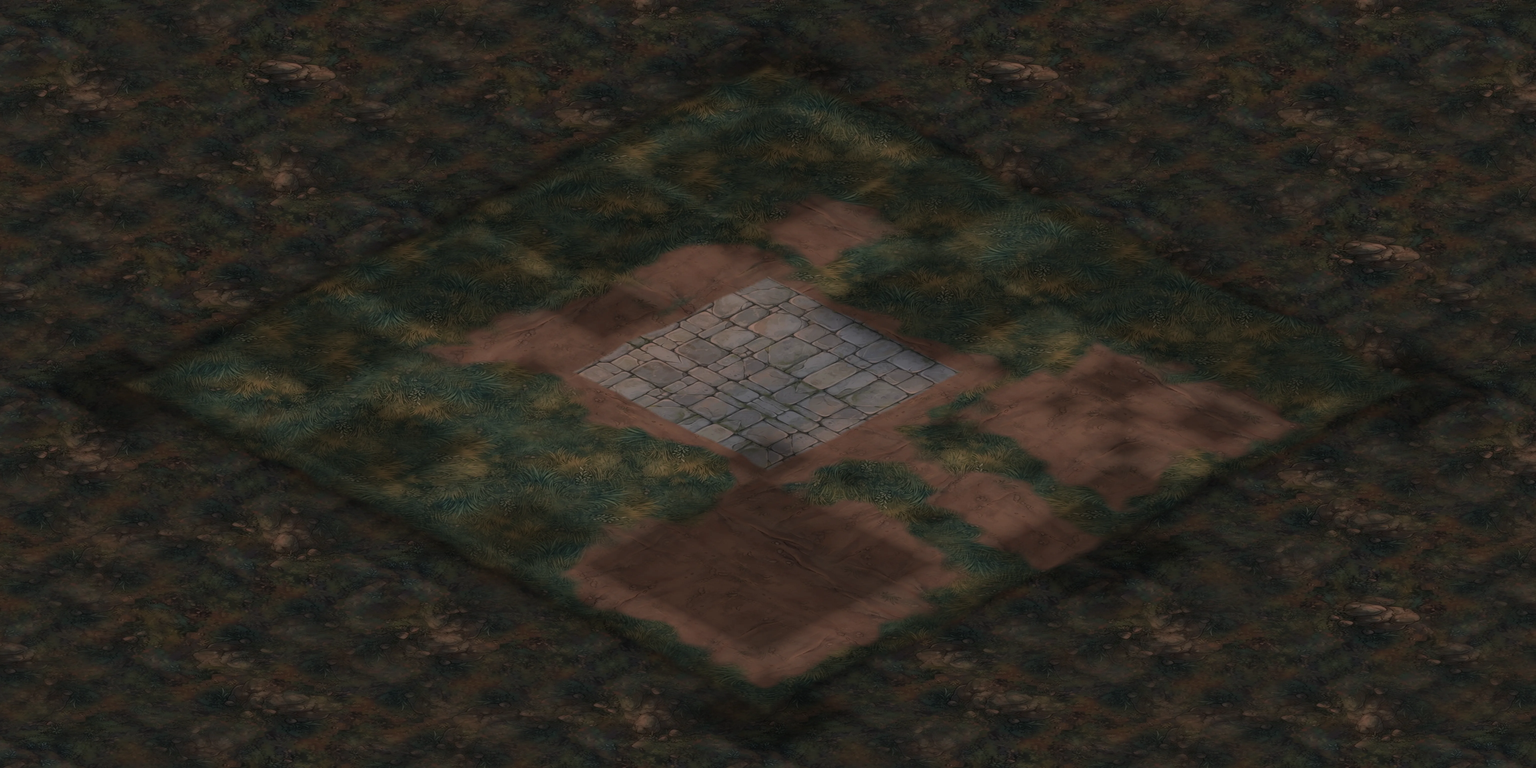
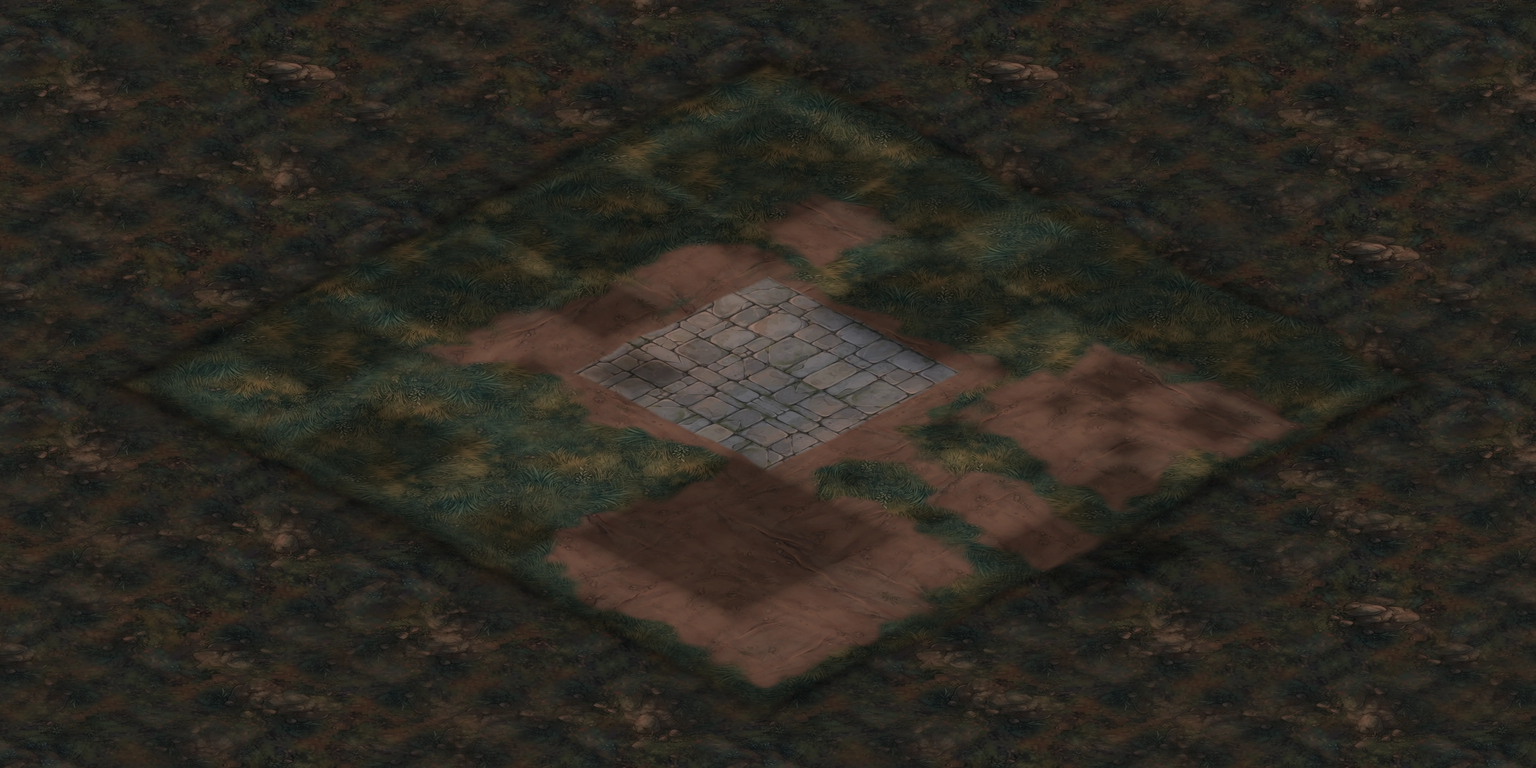
Walls without corner towers; townsfolk spread out; fade what hides you
The corner towers are gone: the four walls run into the corners and meet.
The arena moved off the walls so the Arena Keeper stands in front of it in
plain view; the Martial Master stands in the training yard; the stele moved
to the west side of the plaza; townsfolk stand at least 3 tiles apart
(tested). Any piece drawn over the cultivator fades to see-through, so
walking along the near wall no longer hides you.

Claude-Session: https://claude.ai/code/session_018PQaDNMJFyDFFKL6zLMtCE

diff --git a/web/static/town.js b/web/static/town.js
@@ -12,7 +12,7 @@
 
    The town is built from pieces (web/town.py): the ground, then each building and prop as its own picture, drawn in
    depth order with you and the townsfolk: you are hidden by a building when you stand behind it (beyond its
-   footprint's back edges), and drawn over it in front.
+   footprint's back edges), and drawn over it in front; whatever hides you fades to see-through.
 
    Walk up to someone and press E (or tap the button) to talk: a dialogue says who they are and offers the pages
    they send you to. Nothing here changes the game, so the server doesn't follow where you walk. */
@@ -214,7 +214,7 @@
     if (painted.complete) ctx.drawImage(painted, -half, 0, SIZE * TW, full);
     if (debug) drawDebug();
     function at(x, y, f) { ctx.save(); ctx.translate(x, y); ctx.scale(1 / K, 1 / K); f(); ctx.restore(); }   // you and they at your size
-    var movers = [{x: hero.x, y: hero.y, h: 175, f: function () { at(hp.x, hp.y, function () { drawHero(0, 0); }); }}];
+    var movers = [{hero: true, x: hero.x, y: hero.y, h: 175, f: function () { at(hp.x, hp.y, function () { drawHero(0, 0); }); }}];
     NPCS.forEach(function (n) {
       var p = toScreen(n.x, n.y);
       movers.push({x: n.x, y: n.y, h: (n.h || 100) + 50, f: function () { at(p.x, p.y, function () { drawNpc(n, 0, 0); }); }});
@@ -240,6 +240,10 @@
         if (front) slot = i + 1;
       });
       m.slot = slot;
+      if (m.hero) PIECES.forEach(function (q, i) {         // anything drawn over you turns see-through
+        var r = q.rect, left = r[0] - off.x;
+        q.fade = i >= slot && !(p.x + w < left || p.x - w > left + r[2] || p.y < r[1] || top > r[1] + r[3]);
+      });
     });
     movers.sort(function (a, b) { return a.slot - b.slot || (a.x + a.y) - (b.x + b.y); });
     var out = [], k = 0;
@@ -250,7 +254,11 @@
     return out;
   }
   function drawPiece(q, off) {
-    if (q.img.complete && q.img.naturalWidth) ctx.drawImage(q.img, q.rect[0] - off.x, q.rect[1], q.rect[2], q.rect[3]);
+    if (!q.img.complete || !q.img.naturalWidth) return;
+    q.alpha = q.alpha == null ? 1 : q.alpha + ((q.fade ? 0.4 : 1) - q.alpha) * 0.15;   // ease in and out
+    ctx.globalAlpha = q.alpha;
+    ctx.drawImage(q.img, q.rect[0] - off.x, q.rect[1], q.rect[2], q.rect[3]);
+    ctx.globalAlpha = 1;
   }
   /* G: the tile grid, the walkable ground and what blocks the way (to check the town against its painting) */
   function drawDebug() {

diff --git a/web/town.py b/web/town.py
@@ -54,12 +54,10 @@ def _wall_line(key, start, end, at, along_x):
 # x0..x0+a, y0..y0+b in tiles. A picture's door (or face) looks to the bottom-right (+x); `mirror` turns it to the
 # bottom-left (+y), swapping which side is long. The picture's base corners are fitted onto the footprint's.
 BUILDINGS = [
-    # the walls: towers at the corners, the gate in the south-east wall
-    _b("tower_n", "tower_low", 1.4, 1.4, 3.0), _b("tower_e", "tower_low", 28.2, 1.4, 3.0),
-    _b("tower_w", "tower_low", 1.4, 28.2, 3.0), _b("tower_s", "tower", 28.2, 28.2, 3.0),
-    *_wall_line("wall_nw", 4.4, 28.2, 2.4, along_x=False), *_wall_line("wall_ne", 4.4, 28.2, 2.4, along_x=True),
-    *_wall_line("wall_sw", 4.4, 28.2, 29.0, along_x=True),
-    *_wall_line("wall_se_n", 4.4, 14.3, 29.0, along_x=False), *_wall_line("wall_se_s", 18.3, 28.2, 29.0, along_x=False),
+    # the walls, meeting at the corners; the gate in the south-east wall
+    *_wall_line("wall_nw", 2.6, 29.6, 2.4, along_x=False), *_wall_line("wall_ne", 2.6, 29.6, 2.4, along_x=True),
+    *_wall_line("wall_sw", 2.6, 29.6, 29.0, along_x=True),
+    *_wall_line("wall_se_n", 2.6, 14.3, 29.0, along_x=False), *_wall_line("wall_se_s", 17.6, 29.6, 29.0, along_x=False),
     _b("gatehouse", "gatehouse", 27.6, 14.3, 4.0, mirror=True),
     # the north corner: the pond, the pavilion, rocks and trees
     _b("pond", "pond", 4.6, 4.6, 5.0),
@@ -76,14 +74,14 @@ BUILDINGS = [
     # the south-west: a house, trees and bushes
     _b("house_w", "house", 3.4, 22.2, 3.4),
     _b("house_sw", "house", 8.8, 25.0, 3.4, mirror=True),
-    _b("boulders_sw", "boulders", 16.0, 26.0, 2.4),
+    _b("boulders_sw", "boulders", 16.0, 26.6, 1.8),
     # the east: the training yard
     _b("rack_1", "rack", 22.4, 8.0, 1.4), _b("rack_2", "rack", 26.2, 7.6, 1.4, mirror=True),
     _b("dummy_1", "dummy", 22.6, 10.4, 0.55), _b("dummy_2", "dummy", 24.4, 9.6, 0.55), _b("dummy_3", "dummy", 25.8, 11.0, 0.55),
     _b("barrels_e", "barrels", 26.8, 12.0, 1.8),
     # the south: the arena, the stele by the plaza
-    _b("arena", "arena", 19.8, 20.2, 7.0),
-    _b("stele", "stele", 18.4, 18.4, 1.5),
+    _b("arena", "arena", 18.4, 19.8, 6.4),
+    _b("stele", "stele", 12.0, 17.6, 1.5),
     # lantern posts along the road and at the plaza's corners
     *[_b(f"lantern_{i}", "lantern", x, y, 0.4) for i, (x, y) in enumerate(
         [(21.4, 13.8), (24.8, 13.8), (21.4, 18.0), (24.8, 18.0), (10.4, 10.4), (20.0, 10.2), (10.2, 20.0)])],
@@ -95,7 +93,7 @@ PROPS = [
     {"img": "blossom", "x": 21.6, "y": 7.0, "h": 380, "r": 0.4},     # by the training yard
     {"img": "blossom", "x": 15.2, "y": 25.6, "h": 380, "r": 0.4},    # in the south-west garden
     {"img": "pine", "x": 4.8, "y": 27.0, "h": 420, "r": 0.35},
-    {"img": "pine", "x": 17.6, "y": 23.4, "h": 400, "r": 0.35},
+    {"img": "pine", "x": 16.6, "y": 23.0, "h": 400, "r": 0.35},
 ]
 # The ground (scripts/make_town_ground.py paints art/maps/town.webp from these): grass inside the walls, forest
 # floor outside, the plaza paved and dirt roads, paths and yards; rectangles x0, y0, x1, y1 in tiles.
@@ -106,7 +104,7 @@ GROUND = {
              (8.2, 10.4, 11.4, 21.0),                           # in front of the forge and the herb shop
              (8.6, 6.8, 12.6, 10.4), (12.6, 10.6, 19.6, 11.4),  # to the pavilion; in front of the stalls
              (20.8, 7.0, 28.6, 14.0),                           # the training yard
-             (19.0, 19.6, 28.4, 28.6)],                         # round the arena
+             (17.8, 19.2, 28.4, 28.6)],                         # round the arena
     "walls": (2.4, 2.4, 29.6, 29.6),                            # outside this: forest floor
 }
 
@@ -116,7 +114,7 @@ GROUND = {
 # glow and their name. `h`: how tall it is drawn, in world px (the cultivator is about 120); `flip`: the picture faces
 # left (the page turns everyone toward you). scripts/make_town_npcs.py cuts them out.
 NPCS = [
-    {"key": "gate", "name": "Gate Warden", "title": "The road out", "x": 26.4, "y": 18.7,
+    {"key": "gate", "name": "Gate Warden", "title": "The road out", "x": 26.2, "y": 18.8,
      "src": "/art/portraits/town/gate.webp", "h": 135,
      "line": "The wilds are restless tonight. Beasts prowl the forest, and the herbs out there won't pick themselves.",
      "go": [["Hunt beasts", "/explore"], ["Gather herbs", "/gather"]]},
@@ -136,13 +134,13 @@ NPCS = [
      "src": "/art/portraits/town/elder.webp", "h": 128,
      "line": "Sit a while, child. Let me see how far your cultivation has come.",
      "go": [["Show my cultivation", "/profile"], ["Check my bag", "/inventory"]]},
-    {"key": "master", "name": "Martial Master", "title": "Training", "x": 23.0, "y": 13.0,
+    {"key": "master", "name": "Martial Master", "title": "Training", "x": 24.0, "y": 12.2,
      "src": "/art/portraits/town/master.webp", "h": 128,
      "line": "The training yard isn't open to you yet. Train through the bot for now; my doors open soon."},
-    {"key": "arena", "name": "Arena Keeper", "title": "Duels", "x": 24.6, "y": 16.4,
+    {"key": "arena", "name": "Arena Keeper", "title": "Duels", "x": 25.4, "y": 22.4,
      "src": "/art/portraits/town/arena.webp", "h": 134,
      "line": "No duels in the ring tonight. When it opens, cultivators will test each other here."},
-    {"key": "stele", "name": "Stone Stele", "title": "The rankings", "x": 17.6, "y": 19.6, "prop": True,
+    {"key": "stele", "name": "Stone Stele", "title": "The rankings", "x": 14.0, "y": 19.4, "prop": True,
      "line": "The names of the town's strongest are carved here. The carving isn't finished yet."},
 ]
 

diff --git a/tests/test_town.py b/tests/test_town.py
@@ -59,13 +59,19 @@ def test_every_piece_has_its_picture_and_sits_on_the_ground():
         assert im.mode == "RGBA"
         left, top, w, h = q["rect"]
         assert 0 <= left and left + w <= town.SIZE * 128 and top + h <= town.SIZE * 64 and w > 0 and h > 0
-    edge = {"wall_s", "wall_l", "tower", "tower_low", "gatehouse"}   # wall slices tuck under the towers and the gate
+    edge = {"wall_s", "wall_l", "gatehouse"}                  # wall slices meet at corners and tuck under the gate
     gap = 0.2                                                 # stone bases never touch: a little ground between
     for a in town.BUILDINGS:
         for b in town.BUILDINGS:
             if a is not b and not (a["img"] in edge or b["img"] in edge):
                 assert (a["x0"] + a["a"] + gap <= b["x0"] or b["x0"] + b["a"] + gap <= a["x0"] or
                         a["y0"] + a["b"] + gap <= b["y0"] or b["y0"] + b["b"] + gap <= a["y0"]), (a["key"], b["key"])
+
+
+def test_the_townsfolk_stand_apart():
+    for i, a in enumerate(town.NPCS):
+        for b in town.NPCS[i + 1:]:
+            assert math.dist((a["x"], a["y"]), (b["x"], b["y"])) >= 3, (a["key"], b["key"])
 
 
 def test_townsfolk_are_complete_and_unique():

diff --git a/docs/town.md b/docs/town.md
@@ -21,7 +21,7 @@ buttons; it walks the town as soon as its sheet is added. No admin check, unlike
   ground tiles, lifted flat and blended into seamless tiles) and `town.GROUND`: grass inside the walls, forest floor
   outside, the paved plaza, dirt roads and yards, a soft shadow at each building's foot, dimmed to dusk. On it stand
   the walls (one straightened one-tile slice of SHOAIB's wall per tile, so they run straight and
-  unbroken between the towers), the towers and gate, the buildings, trees, the pond, rocks and props, each its own Gemini picture
+  unbroken and meet at the corners), the gate, the buildings, trees, the pond, rocks and props, each its own Gemini picture
   (`art/maps/town/`, cut by `scripts/make_town_kit.py`), so each is as sharp as it was drawn.
 - **Spacing:** no two stone bases touch: there is at least a fifth of a tile of ground between footprints
   (`tests/test_town.py`).
@@ -33,7 +33,7 @@ buttons; it walks the town as soon as its sheet is added. No admin check, unlike
   `h` world px tall.
 - **Walking behind things:** the pieces are drawn back to front with you and the townsfolk among them: you are
   drawn after every piece you overlap on screen and stand in front of (beyond a footprint's back edges, or nearer
-  than a prop), so a building hides you when you walk behind it.
+  than a prop), so a building hides you when you walk behind it, and whatever hides you fades to see-through.
 - **Where you can walk:** inside `town.AREA` (a polygon: the town inside its walls), off every footprint (you can
   step `INSET` onto its paved edge), props and `town.BLOCKED` (the pond). Press **G** on the page to see the grid,
   the walkable outline, the footprints and circles, and your position. The page and `town.walkable` share the test.
@@ -50,7 +50,7 @@ buttons; it walks the town as soon as its sheet is added. No admin check, unlike
 ## The townsfolk
 
 `town.NPCS`: where each stands (x, y in tiles, the feet), name, title, what they say, and the pages they send you
-to. Walk within `REACH` (1.5 tiles) and a **Talk to …** button appears; press **E** (or Enter, Space, or tap it)
+to. They stand at least 3 tiles apart. Walk within `REACH` (1.5 tiles) and a **Talk to …** button appears; press **E** (or Enter, Space, or tap it)
 for the dialogue. **Esc** or **Leave** closes it. Walking stops while it is open.
 
 | Who | Where | Sends you to |
@@ -60,9 +60,9 @@ for the dialogue. **Esc** or **Leave** closes it. Walking stops while it is open
 | Herbalist Lan | the herb shop | `/alchemy` |
 | Silk Merchant | the silk stalls | `/appearance` |
 | Village Elder | the lane to the pond and pavilion | `/profile`, `/inventory` |
-| Martial Master | the training yard | not open on the website yet: says so |
-| Arena Keeper | in front of the arena | not open yet |
-| Stone Stele | the plaza (a thing, not a person) | not open yet (the rankings) |
+| Martial Master | the training yard, in front of the dummies | not open on the website yet: says so |
+| Arena Keeper | in front of the arena, on its gate side | not open yet |
+| Stone Stele | the west side of the plaza (a thing, not a person) | not open yet (the rankings) |
 
 **Pictures:** `art/portraits/town/<key>.webp`, cut from SHOAIB's Gemini pictures (one person, full body, on a plain
 grey-green backdrop) by `scripts/make_town_npcs.py`: rembg plus a colour key for thin things like the warden's spear,
